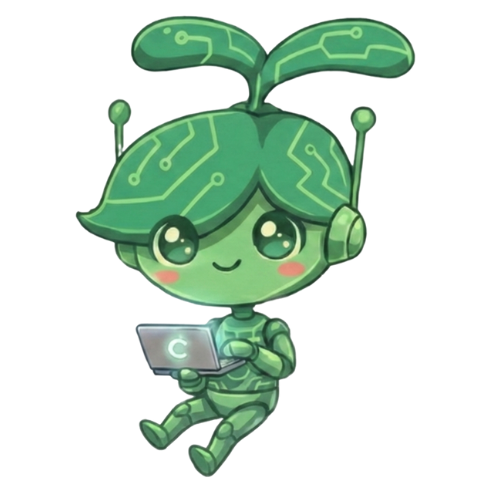
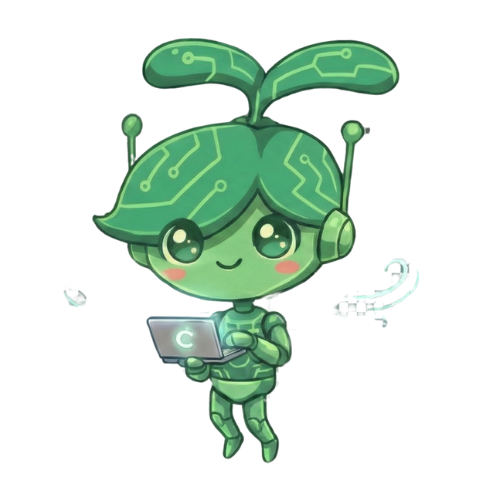
Separate floating characters and AI COMPANIONS section characters
- Restore original char-*.png for floating characters (sides of screen)
- Add new companion-*.png for AI COMPANIONS section
- AI COMPANIONS section now uses new character designs
- Floating characters remain unchanged

Changed region(s): [[0.15, 0.03, 0.84, 0.96], [0.66, 0.51, 0.84, 0.66], [0.12, 0.57, 0.18, 0.63]]

diff --git a/src/pages/home.ts b/src/pages/home.ts
@@ -176,9 +176,9 @@ export const renderHomePage = (featuredCourses: Course[], recentPosts: BlogPost[
           </div>
           <div class="relative flex justify-center items-end gap-4">
             <div class="absolute inset-0 bg-nature-mint rounded-3xl opacity-30 blur-2xl"></div>
-            <img src="/static/char-green.png" alt="リーフ" class="relative w-28 md:w-36 drop-shadow-xl hover:scale-110 transition-transform duration-500" style="animation: float-char1 6s ease-in-out infinite;">
-            <img src="/static/char-rabbit.png" alt="ロボうさぎ" class="relative w-32 md:w-40 drop-shadow-xl hover:scale-110 transition-transform duration-500" style="animation: float-char2 7s ease-in-out infinite;">
-            <img src="/static/char-pink.png" alt="ピンク" class="relative w-24 md:w-32 drop-shadow-xl hover:scale-110 transition-transform duration-500" style="animation: float-char3 5s ease-in-out infinite;">
+            <img src="/static/companion-green.png" alt="リーフ" class="relative w-28 md:w-36 drop-shadow-xl hover:scale-110 transition-transform duration-500" style="animation: float-char1 6s ease-in-out infinite;">
+            <img src="/static/companion-rabbit.png" alt="ロボうさぎ" class="relative w-32 md:w-40 drop-shadow-xl hover:scale-110 transition-transform duration-500" style="animation: float-char2 7s ease-in-out infinite;">
+            <img src="/static/companion-pink.png" alt="ピンク" class="relative w-24 md:w-32 drop-shadow-xl hover:scale-110 transition-transform duration-500" style="animation: float-char3 5s ease-in-out infinite;">
           </div>
         </div>
       </div>
